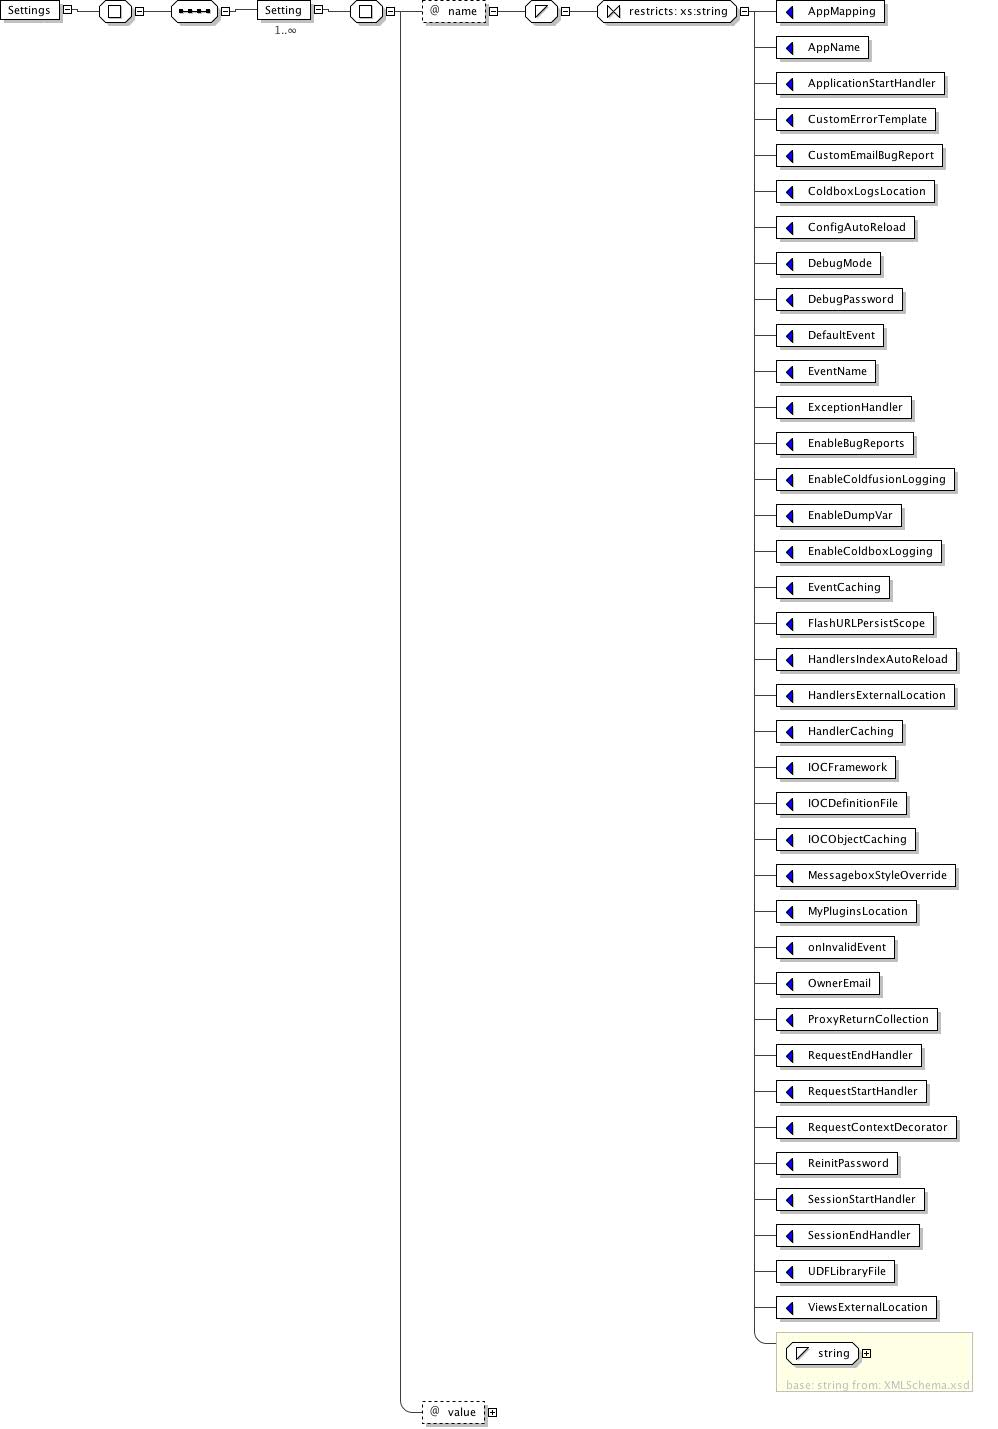
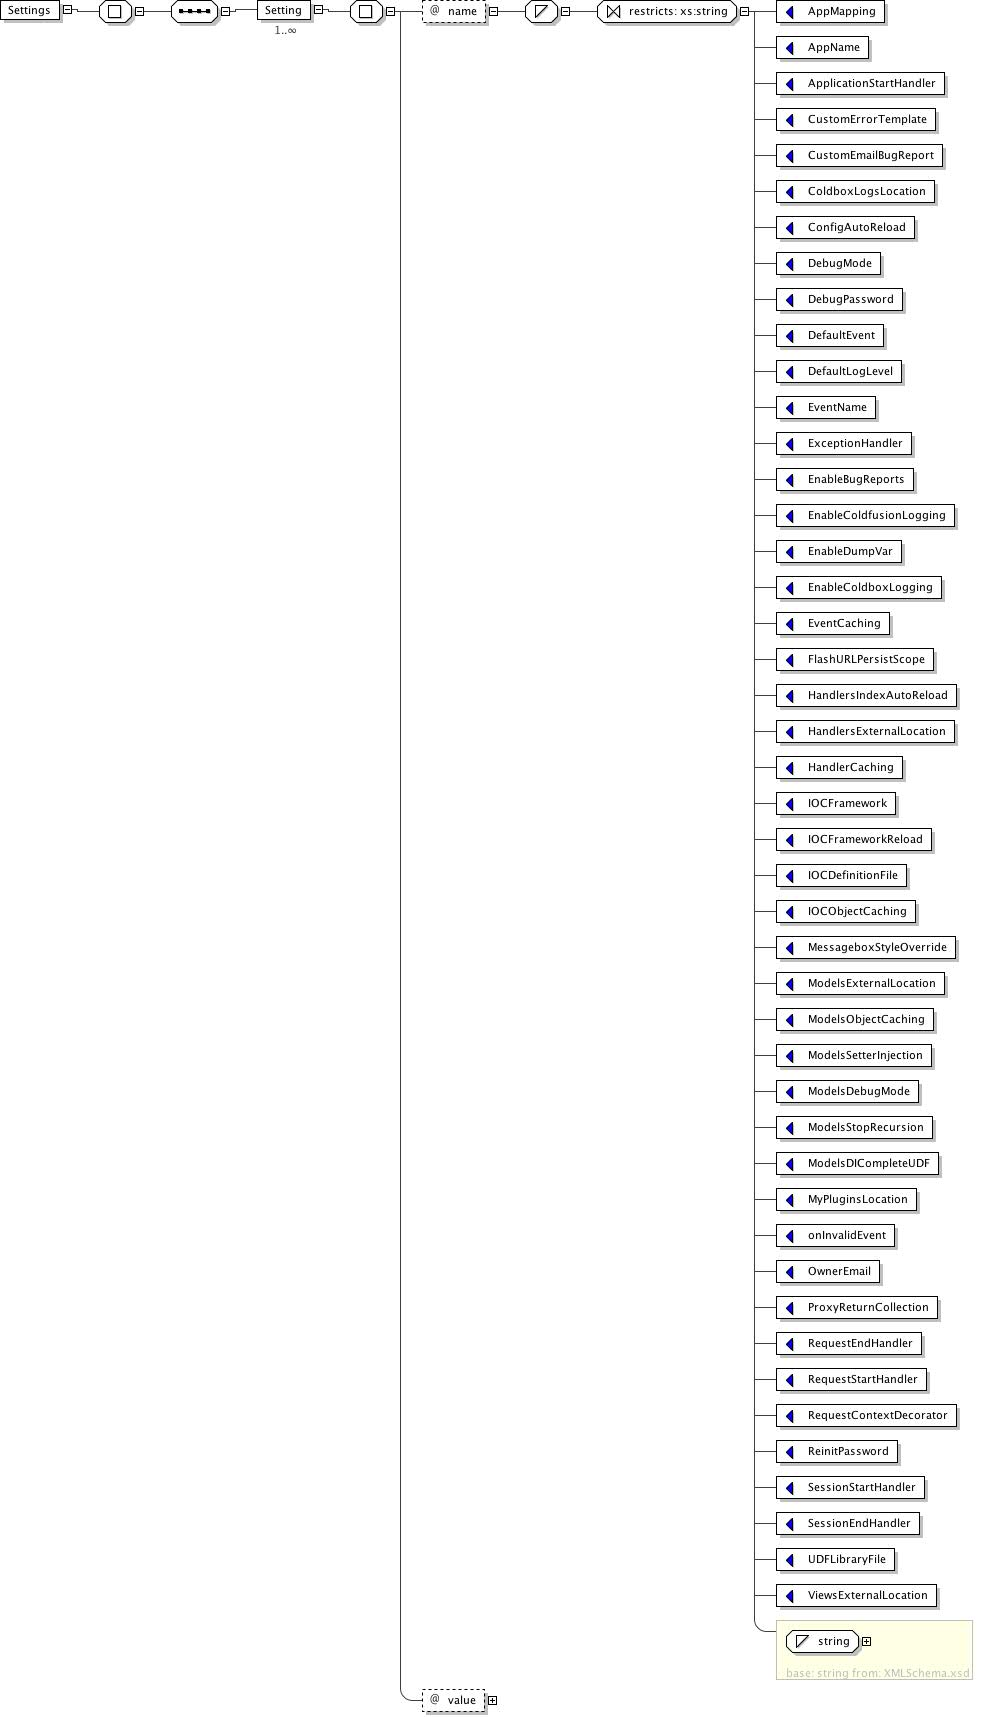
almost finalized.
git-svn-id: http://subversion.assembla.com/svn/coldbox/coldbox/trunk@2013 aa9c7f36-201a-0410-b936-d08bb24d9cb0

diff --git a/documents/SchemaDocs/index.html b/documents/SchemaDocs/index.html
@@ -1,9 +1,8 @@
-
 <!DOCTYPE html
   PUBLIC "-//W3C//DTD XHTML 1.0 Strict//EN" "http://www.w3.org/TR/xhtml1/DTD/xhtml1-strict.dtd">
 <html xmlns="http://www.w3.org/1999/xhtml">
    <head>
-      <title>Documentation for ColdBox 2.6.2 Config - config.xsd</title>
+      <title>Documentation for ColdBox 2.6.3 Configuration File - config.xsd</title>
       <meta http-equiv="Content-Type" content="text/xml; charset=UTF-8"/>
       <style type="text/css">
 /* ~~~~~~~~~~~~~~~~~~~~~~~~~~~~~~~~~~~~~~~~~~~~~~~~~~~~~~ */
@@ -725,7 +724,7 @@ function viewDocumentation(compDesc, compName, docTextArray) {
    </head>
    <body>
       <h1>
-         <a name="top">Documentation for ColdBox 2.6.2 Config</a>
+         <a name="top">Documentation for ColdBox 2.6.3 Configuration File</a>
       </h1>
       <div style="float: right;">
          <div id="printerControls" style="display:none;">
@@ -3622,7 +3621,7 @@ if (gc != null) {
                <div style="margin-left: 1.5em">&lt;Setting<br/>
                   <span style="margin-left: 0.5em"> name="<span class="constraint">
                         <span class="type">
-                           <a href="#ns_xs" title="Find out namespace of 'xs' prefix">xs</a>:string</span> (<em>value</em> comes from list: {'AppMapping'|'AppName'|'ApplicationStartHandler'|'CustomErrorTemplate'|'CustomEmailBugReport'|'ColdboxLogsLocation'|'ConfigAutoReload'|'DebugMode'|'DebugPassword'|'DefaultEvent'|'EventName'|'ExceptionHandler'|'EnableBugReports'|'EnableColdfusionLogging'|'EnableDumpVar'|'EnableColdboxLogging'|'EventCaching'|'FlashURLPersistScope'|'HandlersIndexAutoReload'|'HandlersExternalLocation'|'HandlerCaching'|'IOCFramework'|'IOCDefinitionFile'|'IOCObjectCaching'|'MessageboxStyleOverride'|'MyPluginsLocation'|'onInvalidEvent'|'OwnerEmail'|'ProxyReturnCollection'|'RequestEndHandler'|'RequestStartHandler'|'RequestContextDecorator'|'ReinitPassword'|'SessionStartHandler'|'SessionEndHandler'|'UDFLibraryFile'|'ViewsExternalLocation'})</span> 
+                           <a href="#ns_xs" title="Find out namespace of 'xs' prefix">xs</a>:string</span> (<em>value</em> comes from list: {'AppMapping'|'AppName'|'ApplicationStartHandler'|'CustomErrorTemplate'|'CustomEmailBugReport'|'ColdboxLogsLocation'|'ConfigAutoReload'|'DebugMode'|'DebugPassword'|'DefaultEvent'|'DefaultLogLevel'|'EventName'|'ExceptionHandler'|'EnableBugReports'|'EnableColdfusionLogging'|'EnableDumpVar'|'EnableColdboxLogging'|'EventCaching'|'FlashURLPersistScope'|'HandlersIndexAutoReload'|'HandlersExternalLocation'|'HandlerCaching'|'IOCFramework'|'IOCFrameworkReload'|'IOCDefinitionFile'|'IOCObjectCaching'|'MessageboxStyleOverride'|'ModelsExternalLocation'|'ModelsObjectCaching'|'ModelsSetterInjection'|'ModelsDebugMode'|'ModelsStopRecursion'|'ModelsDICompleteUDF'|'MyPluginsLocation'|'onInvalidEvent'|'OwnerEmail'|'ProxyReturnCollection'|'RequestEndHandler'|'RequestStartHandler'|'RequestContextDecorator'|'ReinitPassword'|'SessionStartHandler'|'SessionEndHandler'|'UDFLibraryFile'|'ViewsExternalLocation'})</span> 
                      <span class="occurs">[1]</span> 
                      <p class="documentation">'The name of the framework\'s settings.'</p>"</span>
                   <br/>
@@ -3693,6 +3692,8 @@ if (gc != null) {
                                     <div style="margin-left: 1.5em">&lt;<span class="scTag">xs:enumeration</span> 
                                        <span class="scTag">value</span>="<span class="scContent">DefaultEvent</span>"/&gt;</div>
                                     <div style="margin-left: 1.5em">&lt;<span class="scTag">xs:enumeration</span> 
+                                       <span class="scTag">value</span>="<span class="scContent">DefaultLogLevel</span>"/&gt;</div>
+                                    <div style="margin-left: 1.5em">&lt;<span class="scTag">xs:enumeration</span> 
                                        <span class="scTag">value</span>="<span class="scContent">EventName</span>"/&gt;</div>
                                     <div style="margin-left: 1.5em">&lt;<span class="scTag">xs:enumeration</span> 
                                        <span class="scTag">value</span>="<span class="scContent">ExceptionHandler</span>"/&gt;</div>
@@ -3717,11 +3718,25 @@ if (gc != null) {
                                     <div style="margin-left: 1.5em">&lt;<span class="scTag">xs:enumeration</span> 
                                        <span class="scTag">value</span>="<span class="scContent">IOCFramework</span>"/&gt;</div>
                                     <div style="margin-left: 1.5em">&lt;<span class="scTag">xs:enumeration</span> 
+                                       <span class="scTag">value</span>="<span class="scContent">IOCFrameworkReload</span>"/&gt;</div>
+                                    <div style="margin-left: 1.5em">&lt;<span class="scTag">xs:enumeration</span> 
                                        <span class="scTag">value</span>="<span class="scContent">IOCDefinitionFile</span>"/&gt;</div>
                                     <div style="margin-left: 1.5em">&lt;<span class="scTag">xs:enumeration</span> 
                                        <span class="scTag">value</span>="<span class="scContent">IOCObjectCaching</span>"/&gt;</div>
                                     <div style="margin-left: 1.5em">&lt;<span class="scTag">xs:enumeration</span> 
                                        <span class="scTag">value</span>="<span class="scContent">MessageboxStyleOverride</span>"/&gt;</div>
+                                    <div style="margin-left: 1.5em">&lt;<span class="scTag">xs:enumeration</span> 
+                                       <span class="scTag">value</span>="<span class="scContent">ModelsExternalLocation</span>"/&gt;</div>
+                                    <div style="margin-left: 1.5em">&lt;<span class="scTag">xs:enumeration</span> 
+                                       <span class="scTag">value</span>="<span class="scContent">ModelsObjectCaching</span>"/&gt;</div>
+                                    <div style="margin-left: 1.5em">&lt;<span class="scTag">xs:enumeration</span> 
+                                       <span class="scTag">value</span>="<span class="scContent">ModelsSetterInjection</span>"/&gt;</div>
+                                    <div style="margin-left: 1.5em">&lt;<span class="scTag">xs:enumeration</span> 
+                                       <span class="scTag">value</span>="<span class="scContent">ModelsDebugMode</span>"/&gt;</div>
+                                    <div style="margin-left: 1.5em">&lt;<span class="scTag">xs:enumeration</span> 
+                                       <span class="scTag">value</span>="<span class="scContent">ModelsStopRecursion</span>"/&gt;</div>
+                                    <div style="margin-left: 1.5em">&lt;<span class="scTag">xs:enumeration</span> 
+                                       <span class="scTag">value</span>="<span class="scContent">ModelsDICompleteUDF</span>"/&gt;</div>
                                     <div style="margin-left: 1.5em">&lt;<span class="scTag">xs:enumeration</span> 
                                        <span class="scTag">value</span>="<span class="scContent">MyPluginsLocation</span>"/&gt;</div>
                                     <div style="margin-left: 1.5em">&lt;<span class="scTag">xs:enumeration</span> 
